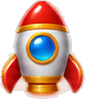
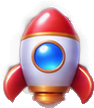
Rocket v3 (dark-haze sheet cleaned) + standalone animation test page
Slicer gains _kill_dark_haze: AI sheets with a baked DIM mottled halo (dark
+ mid-alpha) now get that halo cleared while bright flame/smoke survives
(this sheet: 274k px removed, box edge gone). New /anim-test.html harness
(vite multi-page input) loads every sliced *_win/*_idle strip into its own
looping canvas with replay/once buttons, a background swatch selector (game
dark / gray / white / green / checker) and a missing-sheet checklist, so
each symbol animation can be judged in isolation as sheets are generated.

diff --git a/src/anim-test.ts b/src/anim-test.ts
@@ -1,0 +1,138 @@
+// Standalone animation preview harness (served at /anim-test.html).
+// Loads every *_win and *_idle strip the slicer produced and plays each in its
+// own canvas so you can judge the motion in isolation as sheets are generated.
+
+import { AnimatedSprite, Application, Assets, Container, Rectangle, Sprite, Texture } from 'pixi.js';
+
+const SYMBOLS = [
+	'rocket', 'whale', 'frog', 'diamond', 'moon',
+	'coinG', 'coinP', 'coinB', 'coinT', 'scatter', 'orb',
+];
+const KINDS = ['win', 'idle'] as const;
+
+const gridEl = document.getElementById('grid')!;
+const bgSel = document.getElementById('bg') as HTMLSelectElement;
+const stages: { app: Application; anim?: AnimatedSprite }[] = [];
+
+interface SheetMeta { frames: number; fw: number; fh: number; fps: number }
+
+async function loadStrip(sym: string, kind: string): Promise<{ frames: Texture[]; meta: SheetMeta } | null> {
+	try {
+		const res = await fetch(`/symbols/anim/${sym}_${kind}.json`);
+		if (!res.ok) return null;
+		const meta = (await res.json()) as SheetMeta;
+		const base = await Assets.load<Texture>(`/symbols/anim/${sym}_${kind}.png`);
+		const frames: Texture[] = [];
+		for (let i = 0; i < meta.frames; i++) {
+			frames.push(new Texture({ source: base.source, frame: new Rectangle(i * meta.fw, 0, meta.fw, meta.fh) }));
+		}
+		return { frames, meta };
+	} catch {
+		return null;
+	}
+}
+
+async function loadStatic(sym: string): Promise<Texture | null> {
+	try {
+		return await Assets.load<Texture>(`/symbols/${sym}.png`);
+	} catch {
+		return null;
+	}
+}
+
+function checkerCss(): string {
+	return 'repeating-conic-gradient(#2a2f3d 0% 25%, #1a1d26 0% 50%) 50% / 24px 24px';
+}
+
+async function build() {
+for (const sym of SYMBOLS) {
+	for (const kind of KINDS) {
+		const strip = await loadStrip(sym, kind);
+		const staticTex = kind === 'win' ? await loadStatic(sym) : null;
+		if (!strip && !staticTex) {
+			// show a placeholder card only for the win slot so the set reads as a checklist
+			if (kind === 'win') addMissingCard(sym);
+			continue;
+		}
+
+		const card = document.createElement('div');
+		card.className = 'card';
+		const stage = document.createElement('div');
+		stage.className = 'stage';
+		card.appendChild(stage);
+
+		const name = document.createElement('div');
+		name.className = 'name';
+		name.textContent = `${sym} · ${kind}`;
+		const meta = document.createElement('div');
+		meta.className = 'meta';
+		meta.textContent = strip ? `${strip.meta.frames} frames @ ${strip.meta.fps}fps` : 'static only';
+		card.append(name, meta);
+
+		const row = document.createElement('div');
+		row.className = 'row';
+		card.appendChild(row);
+		gridEl.appendChild(card);
+
+		const app = new Application();
+		await app.init({ width: 180, height: 180, backgroundAlpha: 0, antialias: true, resolution: 2, autoDensity: true });
+		stage.appendChild(app.canvas);
+		const holder = { app, anim: undefined as AnimatedSprite | undefined };
+		stages.push(holder);
+
+		const root = new Container();
+		app.stage.addChild(root);
+		root.x = 90; root.y = 90;
+
+		if (strip) {
+			const a = new AnimatedSprite(strip.frames);
+			a.anchor.set(0.5);
+			a.animationSpeed = strip.meta.fps / 60;
+			a.scale.set(150 / Math.max(a.texture.width, a.texture.height));
+			a.loop = true;
+			a.play();
+			root.addChild(a);
+			holder.anim = a;
+
+			const replay = document.createElement('button');
+			replay.textContent = '▶ replay';
+			replay.onclick = () => { a.gotoAndPlay(0); };
+			row.appendChild(replay);
+
+			const once = document.createElement('button');
+			once.className = 'ghost';
+			once.textContent = 'once';
+			once.onclick = () => { a.loop = false; a.gotoAndPlay(0); a.onComplete = () => { a.loop = true; }; };
+			row.appendChild(once);
+		} else if (staticTex) {
+			const sp = new Sprite(staticTex);
+			sp.anchor.set(0.5);
+			sp.scale.set(150 / Math.max(sp.texture.width, sp.texture.height));
+			root.addChild(sp);
+		}
+	}
+}
+}
+
+function addMissingCard(sym: string) {
+	const card = document.createElement('div');
+	card.className = 'card missing';
+	card.innerHTML = `<div class="stage"></div><div class="name">${sym}</div><div class="meta">no sheet yet</div>`;
+	gridEl.appendChild(card);
+}
+
+// background swatch control
+function applyBg() {
+	const v = bgSel.value;
+	for (const s of stages) {
+		const el = s.app.canvas.parentElement as HTMLElement;
+		el.style.background = v === 'transparent' ? checkerCss() : v;
+	}
+}
+bgSel.onchange = applyBg;
+
+document.getElementById('playall')!.onclick = () => {
+	for (const s of stages) s.anim?.gotoAndPlay(0);
+};
+
+void build().then(applyBg);

diff --git a/anim-test.html b/anim-test.html
@@ -1,0 +1,56 @@
+<!doctype html>
+<html lang="en">
+	<head>
+		<meta charset="UTF-8" />
+		<meta name="viewport" content="width=device-width, initial-scale=1" />
+		<title>GOD CANDLE — Animation Test</title>
+		<style>
+			@font-face { font-family: 'DynaPuff'; src: url('/fonts/DynaPuff-Variable.ttf') format('truetype'); font-weight: 400 700; }
+			@font-face { font-family: 'IBM Plex Mono'; src: url('/fonts/IBMPlexMono-Regular.ttf') format('truetype'); }
+			* { box-sizing: border-box; margin: 0; }
+			body { background: #0c0d11; color: #fff; font-family: 'IBM Plex Mono', monospace; padding: 24px; }
+			h1 { font-family: 'DynaPuff'; color: #2be26a; font-size: 30px; }
+			.sub { color: #7a8294; font-size: 12px; letter-spacing: 2px; margin: 6px 0 22px; }
+			.grid { display: flex; flex-wrap: wrap; gap: 18px; }
+			.card {
+				width: 220px; background: #171a22; border: 2px solid #262b38; border-radius: 16px;
+				padding: 14px; display: flex; flex-direction: column; align-items: center;
+			}
+			.card.missing { opacity: 0.4; }
+			.stage {
+				width: 180px; height: 180px; border-radius: 12px; background: #0e1016;
+				display: flex; align-items: center; justify-content: center; position: relative;
+				border: 1px solid #222634; overflow: hidden;
+			}
+			.stage canvas { image-rendering: auto; }
+			.name { font-family: 'DynaPuff'; font-size: 18px; color: #fff; margin-top: 10px; }
+			.meta { font-size: 11px; color: #7a8294; margin-top: 4px; min-height: 15px; }
+			.row { display: flex; gap: 8px; margin-top: 10px; }
+			button {
+				font-family: 'IBM Plex Mono'; font-size: 11px; color: #06250f; background: #2be26a;
+				border: none; border-radius: 8px; padding: 7px 12px; cursor: pointer; letter-spacing: 1px;
+			}
+			button.ghost { background: #262b38; color: #cfd6e4; }
+			.controls { margin-bottom: 20px; display: flex; gap: 10px; align-items: center; }
+			select { font-family: 'IBM Plex Mono'; background: #171a22; color: #fff; border: 1px solid #262b38; border-radius: 8px; padding: 6px 10px; }
+			a.back { color: #2be26a; text-decoration: none; font-size: 12px; }
+		</style>
+	</head>
+	<body>
+		<h1>GOD CANDLE — Animation Test</h1>
+		<div class="sub">EVERY SLICED SPRITE SHEET, PLAYED IN ISOLATION · <a class="back" href="/">← back to game</a></div>
+		<div class="controls">
+			<label>Preview background:</label>
+			<select id="bg">
+				<option value="#0e1016">game dark</option>
+				<option value="#2a2f3d">mid gray</option>
+				<option value="#ffffff">white</option>
+				<option value="#2be26a">brand green</option>
+				<option value="transparent">checker</option>
+			</select>
+			<button id="playall" class="ghost">▶ replay all</button>
+		</div>
+		<div class="grid" id="grid"></div>
+		<script type="module" src="/src/anim-test.ts"></script>
+	</body>
+</html>

diff --git a/vite.config.ts b/vite.config.ts
@@ -1,7 +1,16 @@
+import { resolve } from 'node:path';
 import { svelte } from '@sveltejs/vite-plugin-svelte';
 import { defineConfig } from 'vite';
 
 export default defineConfig({
 	plugins: [svelte()],
 	base: './',
+	build: {
+		rollupOptions: {
+			input: {
+				main: resolve(__dirname, 'index.html'),
+				animTest: resolve(__dirname, 'anim-test.html'),
+			},
+		},
+	},
 });

diff --git a/tools/slice_sheet.py b/tools/slice_sheet.py
@@ -21,6 +21,23 @@ import sys
 from PIL import Image
 
 
+def _kill_dark_haze(im: Image.Image, lum_max: int, alpha_max: int) -> None:
+    """Clear dim + semi-transparent pixels (baked dark halo); keep bright art."""
+    px = im.load()
+    w, h = im.size
+    cleared = 0
+    for y in range(h):
+        for x in range(w):
+            r, g, b, a = px[x, y]
+            if a == 0:
+                continue
+            lum = (r * 299 + g * 587 + b * 114) // 1000
+            if lum <= lum_max and a <= alpha_max:
+                px[x, y] = (r, g, b, 0)
+                cleared += 1
+    print(f"dark-haze kill: cleared {cleared} dim/semi px")
+
+
 def key_background(im: Image.Image, tol: int = 26) -> Image.Image:
     """Remove the baked background: BFS from every border pixel, clearing pixels
     whose color is within `tol` per channel of the median corner color."""
@@ -103,6 +120,10 @@ def main() -> None:
         ALPHA_FLOOR = 32
         a = im.split()[3].point(lambda v: 0 if v < ALPHA_FLOOR else v)
         im.putalpha(a)
+        # dark-haze kill: AI often bakes a dim mottled halo at mid alpha. Clear
+        # pixels that are both DIM and SEMI-transparent (background), while bright
+        # flame/smoke/art survives even at low alpha.
+        _kill_dark_haze(im, lum_max=70, alpha_max=150)
 
     w, h = im.size
     fw, fh = w // cols, h // rows
